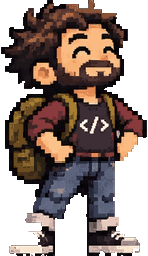
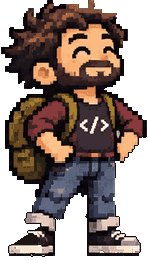
Repair the front-facing intro Nacho: shoes, soles and hand outline
Pixellab's background removal ate the front of the left shoe, holes in the
soles, the sole outlines and the right hand's outline. tools/fix_hd_still.py
rebuilds the shoe upper, closes the soles, adds 4 px under the feet (they
were cut by the frame edge) and restores the outline there. The breathing
loop is rebuilt from the repaired still; walk frames get the same 4 px so
his feet stay on one line.

Claude-Session: https://claude.ai/code/session_01TrKHjLpm7yGKA7h6gdrdVj

diff --git a/index.html b/index.html
@@ -57,11 +57,11 @@
     /* Greeting, typed like an old game; the last dot blinks like a cursor. It sits just above Nacho's
        head at the start, fixed to the page (not the screen), so it scrolls away while he walks off to the
        right. His art fills his 256 px cell from the very top, so the text sits a line plus 12 px above
-       half a cell up from the middle of the screen. */
+       half a cell up from the middle of the screen (cells are 260 px: 4 px of room under the soles). */
     .greeting {
       position: absolute;
-      top: calc(50vh - var(--hero) * 128px - 12px - 1.4em);
-      top: calc(50svh - var(--hero) * 128px - 12px - 1.4em);
+      top: calc(50vh - var(--hero) * 130px - 12px - 1.4em);
+      top: calc(50svh - var(--hero) * 130px - 12px - 1.4em);
       left: 0;
       right: 0;
       z-index: 10;
@@ -87,8 +87,8 @@
       display: grid;
       place-items: center;
     }
-    /* The intro Nacho is the high-detail Pixellab art: 256 px cells, shown 1:1. */
-    .sprite--stand { --frame: 256px; --scale: var(--hero); will-change: transform; }
+    /* The intro Nacho is the high-detail Pixellab art: 260 px cells, shown 1:1. */
+    .sprite--stand { --frame: 260px; --scale: var(--hero); will-change: transform; }
     .scene--code { justify-items: start; padding-left: max(16px, 6vw); }
     .scene--guitar { justify-items: end; padding-right: max(16px, 6vw); }
 
@@ -279,7 +279,7 @@
       var rest, pace = 1;
       function measure() {
         var w = intro.offsetWidth, h = intro.offsetHeight;
-        pace = (innerWidth / 2 + w * 0.32) / (0.8 * (innerHeight / 2 + h / 2));  // art is ~146 of 256 px wide
+        pace = (innerWidth / 2 + w * 0.32) / (0.8 * (innerHeight / 2 + h / 2));  // art is ~146 of 260 px wide
       }
       function sink() {
         intro.style.transform = 'translate3d(' + Math.round(scrollY * pace) + 'px, 0, 0)';

diff --git a/tools/fix_hd_still.py b/tools/fix_hd_still.py
@@ -1,0 +1,63 @@
+"""Repair the high-detail front-facing Nacho still where Pixellab's background removal ate pixels.
+
+    python3 tools/fix_hd_still.py   # -> art/pixellab/hd/south-fixed.png (148x260)
+
+- Adds 4 rows below the feet: the soles touched the bottom edge and were cut flat.
+- Left shoe: rebuilds the missing front of the canvas upper (a dark shape sloping down to the toe),
+  keeping the existing laces and toe highlights.
+- Both soles: closes holes in the white rubber and gaps in the dark underside.
+- Outline: a 1 px dark outline where light pixels meet transparency, only around the right hand and
+  the shoes, where the original outline is missing.
+"""
+from pathlib import Path
+import numpy as np
+from PIL import Image
+
+ROOT = Path(__file__).resolve().parents[1]
+src = np.array(Image.open(ROOT / 'art' / 'pixellab' / 'hd' / 'rotations' / 'south.png').convert('RGBA'))
+H, W = src.shape[:2]
+a = np.zeros((H + 4, W, 4), np.uint8)
+a[:H] = src
+lum = lambda p: p[..., :3].astype(int) @ [.3, .59, .11]
+
+opaque = a[..., 3] > 0
+dark = opaque & (lum(a) < 45)
+SHOE = tuple(np.median(a[226:245, 42:54][dark[226:245, 42:54]][:, :3], axis=0).astype(np.uint8)) + (255,)
+OUTLINE = (20, 15, 18, 255)
+SOLE = tuple(np.median(a[246:251, 15:45][opaque[246:251, 15:45]][:, :3], axis=0).astype(np.uint8)) + (255,)
+
+# Left shoe upper: fill the empty area between a toe slope (x 40 at row 226 to x 12 at row 244) and the
+# back of the shoe at x 54.
+for y in range(226, 245):
+    left = round(40 + (12 - 40) * (y - 226) / (244 - 226))
+    row = a[y, left:55]
+    row[row[..., 3] == 0] = SHOE
+
+# Soles: fill holes between the first and last opaque pixel of each row (white rubber, then underside).
+for x0, x1 in ((0, 60), (84, W)):
+    for y in range(245, 253):
+        xs = np.nonzero(a[y, x0:x1, 3])[0]
+        if len(xs):
+            seg = a[y, x0 + xs[0]:x0 + xs[-1] + 1]
+            seg[seg[..., 3] == 0] = SOLE
+    for y in range(253, 256):
+        xs = np.nonzero(a[252, x0:x1, 3])[0]  # underside spans the sole above it
+        seg = a[y, x0 + xs[0]:x0 + xs[-1] + 1]
+        seg[seg[..., 3] == 0] = OUTLINE
+
+# Outline pass in the damaged regions only.
+regions = [(slice(115, 178), slice(104, W)),   # right hand
+           (slice(205, H + 4), slice(0, W))]     # shoes, including the new rows
+for _ in range(1):
+    opaque = a[..., 3] > 0
+    light = opaque & (lum(a) >= 45)
+    near = np.zeros_like(opaque)
+    near[1:] |= light[:-1]; near[:-1] |= light[1:]; near[:, 1:] |= light[:, :-1]; near[:, :-1] |= light[:, 1:]
+    mask = np.zeros_like(opaque)
+    for ys, xs in regions:
+        mask[ys, xs] = True
+    a[mask & near & ~opaque] = OUTLINE
+
+out = ROOT / 'art' / 'pixellab' / 'hd' / 'south-fixed.png'
+Image.fromarray(a).save(out)
+print('saved', out, a.shape[1], 'x', a.shape[0])

diff --git a/art/README.md b/art/README.md
@@ -28,6 +28,8 @@ This writes `assets/<name>.png` and `assets/<name>.json` (frame size, frame coun
 The opening scene uses Pixellab's high-detail Nacho (148x256 stills, 256x256 walk frames) in
 art/pixellab/hd/. Pixellab only gave a still for standing, so the breathing loop is made from it:
 
-    python3 tools/breathe_from_still.py art/pixellab/hd/rotations/south.png art/frames/hd-breathe
-    python3 tools/build_sheet.py hero-stand art/frames/hd-breathe --ms 200 --canvas 256
-    python3 tools/build_sheet.py hero-walk  art/pixellab/hd/walk  --ms 200 --canvas 256
+    python3 tools/fix_hd_still.py   # repairs the shoes, soles and hand outline -> south-fixed.png
+    python3 tools/breathe_from_still.py art/pixellab/hd/south-fixed.png art/frames/hd-breathe
+    # walk frames get the same 4 rows under the feet (art/frames/hd-walk), then:
+    python3 tools/build_sheet.py hero-stand art/frames/hd-breathe --ms 200 --canvas 260
+    python3 tools/build_sheet.py hero-walk  art/frames/hd-walk    --ms 200 --canvas 260
